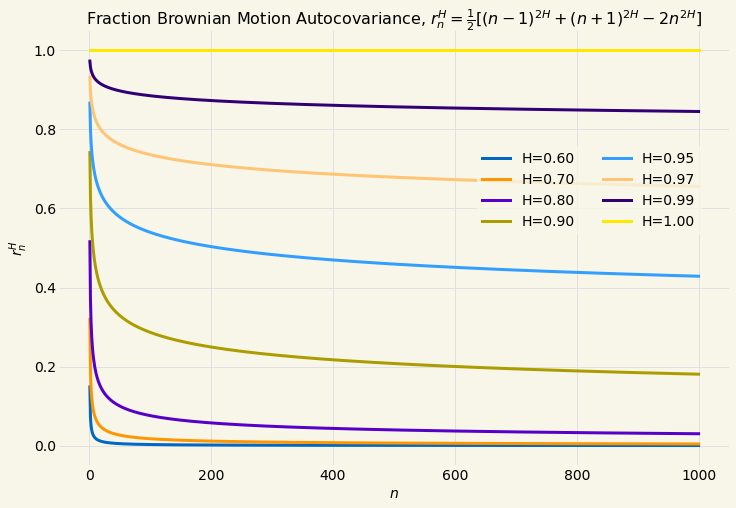
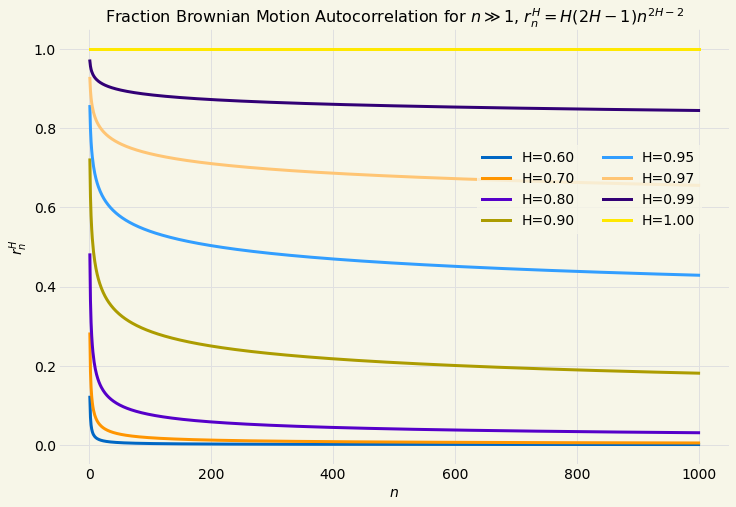
added fft fbm ensemble plots

diff --git a/hydrogen_notebooks/algorithmic_trading/brownian_motion/fractional_brownian_motion_ensemble_averages.py b/hydrogen_notebooks/algorithmic_trading/brownian_motion/fractional_brownian_motion_ensemble_averages.py
@@ -1,0 +1,177 @@
+# %%
+
+%load_ext autoreload
+%autoreload 2
+
+import os
+import sys
+import numpy
+from matplotlib import pyplot
+from lib import config
+from lib import stats
+from lib import brownian_motion as bm
+
+wd = os.getcwd()
+
+yahoo_root = os.path.join(wd, 'data', 'yahoo')
+pyplot.style.use(config.glyfish_style)
+
+# %%
+
+def ensemble_plot(samples, time, text_pos, title, plot_name):
+    nsim, npts = samples.shape
+    figure, axis = pyplot.subplots(figsize=(12, 8))
+    axis.set_xlabel("Time")
+    axis.set_title(title)
+    stats=f"Simulation Stats\n\nμ={format(numpy.mean(samples[:,-1]), '2.2f')}\nσ={format(numpy.std(samples[:,-1]), '2.2f')}"
+    bbox = dict(boxstyle='square,pad=1', facecolor="#FEFCEC", edgecolor="#FEFCEC", alpha=0.75)
+    axis.text(text_pos[0], text_pos[1], stats, fontsize=15, bbox=bbox)
+    for i in range(nsim):
+        axis.plot(time, samples[i], lw=1)
+    config.save_post_asset(figure, "brownian_motion", plot_name)
+
+def ensemble_mean_plot(mean, time, title, plot_name):
+    figure, axis = pyplot.subplots(figsize=(12, 8))
+    axis.set_xlabel("Time")
+    axis.set_title(title)
+    axis.plot(time, mean)
+    config.save_post_asset(figure, "brownian_motion", plot_name)
+
+def ensemble_std_plot(H, std, time, lengend_location, title, plot_name):
+    figure, axis = pyplot.subplots(figsize=(12, 8))
+    step = int(len(time) / 10)
+    axis.set_xlabel("Time")
+    axis.set_title(title)
+    axis.plot(time, std, label="Ensemble Average")
+    axis.plot(time[::step], time[::step]**H, label=r"$t^{H}$", marker='o', linestyle="None", markeredgewidth=1.0, markersize=15.0)
+    axis.legend(bbox_to_anchor=lengend_location)
+    config.save_post_asset(figure, "brownian_motion", plot_name)
+
+def ensemble_autocorrelation_plot(H, ac, time, lengend_location, title, plot_name):
+    figure, axis = pyplot.subplots(figsize=(12, 8))
+    step = int(len(time) / 10)
+    axis.set_ylim([-1.0, 1.0])
+    axis.set_xlabel("Time")
+    axis.set_title(title)
+    label = r"$\frac{1}{2}[(t-1)^{2H} + (t+1)^{2H} - 2t^{2H})]$"
+    axis.plot(time, ac, label="Ensemble Average")
+    axis.plot(time[1::step], bm.fbn_autocorrelation(H, time[1::step]), label=label, marker='o', linestyle="None", markeredgewidth=1.0, markersize=15.0)
+    axis.legend(bbox_to_anchor=lengend_location)
+    config.save_post_asset(figure, "brownian_motion", plot_name)
+
+def fbn_from_fbm(samples):
+    nsim, npts = samples.shape
+    noise = numpy.zeros((nsim, npts-1))
+    for i in range(nsim):
+        for j in range(npts-1):
+            noise[i,j] = samples[i,j+1] - samples[i,j]
+    return noise
+
+# %%
+
+Δt = 1.0
+npts = 1000
+nsims = 500
+time = numpy.linspace(0.0, float(npts)*Δt, npts)
+
+# %%
+
+H = 0.5
+samples = numpy.array([bm.fbm_fft(H, Δt, npts)])
+for i in range(1, nsims):
+    samples = numpy.append(samples, numpy.array([bm.fbm_fft(H, Δt, npts)]), axis=0)
+
+# %%
+
+title = f"Fractional Brownian Motion Ensemble, Ensemble Size={nsims}, H = {format(H, '1.1f')}"
+plot_name = f"fractional_brownian_motion_ensemble_H_{format(H, '1.1f')}"
+ensemble_plot(samples, time, [10.0, 60.0], title, plot_name)
+
+# %%
+
+mean = stats.ensemble_mean(samples)
+title = f"Fractional Brownian Motion Ensemble μ, Ensemble Size={nsims}, H={format(H, '1.1f')}"
+plot_name = f"fractional_brownian_motion_ensemble_μ_H_{format(H, '1.1f')}"
+ensemble_mean_plot(mean, time, title, plot_name)
+
+# %%
+
+std = stats.ensemble_std(samples)
+title = f"Fractional Brownian Motion Ensemble σ, Ensemble Size={nsims}, H={format(H, '1.1f')}"
+plot_name = f"fractional_brownian_motion_ensemble_σ_H_{format(H, '1.1f')}"
+ensemble_std_plot(H, std, time, [0.35, 0.85], title, plot_name)
+
+# %%
+
+ac = stats.ensemble_autocorrelation(fbn_from_fbm(samples))
+title = f"Fractional Brownian Noise Ensemble γ, Ensemble Size={nsims}, H={format(H, '1.1f')}"
+plot_name = f"fractional_brownian_noise_ensemble_γ_H_{format(H, '1.1f')}"
+ensemble_autocorrelation_plot(H, ac, time[:-1], [0.45, 0.85], title, plot_name)
+
+# %%
+
+H = 0.9
+samples = numpy.array([bm.fbm_fft(H, Δt, npts)])
+for i in range(1, nsims):
+    samples = numpy.append(samples, numpy.array([bm.fbm_fft(H, Δt, npts)]), axis=0)
+
+# %%
+
+title = f"Fractional Brownian Motion Ensemble, Ensemble Size={nsims}, H = {format(H, '1.1f')}"
+plot_name = f"fractional_brownian_motion_ensemble_H_{format(H, '1.1f')}"
+ensemble_plot(samples, time, [10.0, 1000.0], title, plot_name)
+
+# %%
+
+mean = stats.ensemble_mean(samples)
+title = f"Fractional Brownian Motion Ensemble μ, Ensemble Size={nsims}, H={format(H, '1.1f')}"
+plot_name = f"fractional_brownian_motion_ensemble_μ_H_{format(H, '1.1f')}"
+ensemble_mean_plot(mean, time, title, plot_name)
+
+# %%
+
+std = stats.ensemble_std(samples)
+title = f"Fractional Brownian Motion Ensemble σ, Ensemble Size={nsims}, H={format(H, '1.1f')}"
+plot_name = f"fractional_brownian_motion_ensemble_σ_H_{format(H, '1.1f')}"
+ensemble_std_plot(H, std, time, [0.35, 0.85], title, plot_name)
+
+# %%
+
+ac = stats.ensemble_autocorrelation(fbn_from_fbm(samples))
+title = f"Fractional Brownian Noise Ensemble γ, Ensemble Size={nsims}, H={format(H, '1.1f')}"
+plot_name = f"fractional_brownian_noise_ensemble_γ_H_{format(H, '1.1f')}"
+ensemble_autocorrelation_plot(H, ac, time[:-1], [0.45, 0.85], title, plot_name)
+
+# %%
+
+H = 0.3
+samples = numpy.array([bm.fbm_fft(H, Δt, npts)])
+for i in range(1, nsims):
+    samples = numpy.append(samples, numpy.array([bm.fbm_fft(H, Δt, npts)]), axis=0)
+
+# %%
+
+title = f"Fractional Brownian Motion Ensemble, Ensemble Size={nsims}, H = {format(H, '1.1f')}"
+plot_name = f"fractional_brownian_motion_ensemble_H_{format(H, '1.1f')}"
+ensemble_plot(samples, time, [50.0, -30.0], title, plot_name)
+
+# %%
+
+mean = stats.ensemble_mean(samples)
+title = f"Fractional Brownian Motion Ensemble μ, Ensemble Size={nsims}, H={format(H, '1.1f')}"
+plot_name = f"fractional_brownian_motion_ensemble_μ_H_{format(H, '1.1f')}"
+ensemble_mean_plot(mean, time, title, plot_name)
+
+# %%
+
+std = stats.ensemble_std(samples)
+title = f"Fractional Brownian Motion Ensemble σ, Ensemble Size={nsims}, H={format(H, '1.1f')}"
+plot_name = f"fractional_brownian_motion_ensemble_σ_H_{format(H, '1.1f')}"
+ensemble_std_plot(H, std, time, [0.35, 0.9], title, plot_name)
+
+# %%
+
+ac = stats.ensemble_autocorrelation(fbn_from_fbm(samples))
+title = f"Fractional Brownian Noise Ensemble γ, Ensemble Size={nsims}, H={format(H, '1.1f')}"
+plot_name = f"fractional_brownian_noise_ensemble_γ_H_{format(H, '1.1f')}"
+ensemble_autocorrelation_plot(H, ac, time[:-1], [0.5, 0.85], title, plot_name)

diff --git a/hydrogen_notebooks/algorithmic_trading/brownian_motion/fractional_brownian_motion_parameters.py b/hydrogen_notebooks/algorithmic_trading/brownian_motion/fractional_brownian_motion_parameters.py
@@ -28,26 +28,26 @@ def fbm_covariance_plot(H_vals, s, time, file_name):
     axis.legend(ncol=2)
     config.save_post_asset(figure, "brownian_motion", file_name)
 
-def fbm_autocorrelation_plot(H_vals, time, lengend_location, file_name):
+def fbn_autocorrelation_plot(H_vals, time, lengend_location, file_name):
     figure, axis = pyplot.subplots(figsize=(12, 8))
     axis.set_xlabel(r"$n$")
     axis.set_ylabel(r"$r_{n}^{H}$")
     axis.set_title(r"Fraction Brownian Motion Autocovariance, $r^{H}_{n}=\frac{1}{2}[(n-1)^{2H} + (n+1)^{2H} - 2n^{2H}]$")
 
     for H in H_vals:
-        axis.plot(time, brownian_motion.fbm_autocorrelation(H, time), label=f"H={format(H, '1.2f')}")
+        axis.plot(time, brownian_motion.fbn_autocorrelation(H, time), label=f"H={format(H, '1.2f')}")
 
     axis.legend(ncol=2, bbox_to_anchor=lengend_location)
     config.save_post_asset(figure, "brownian_motion", file_name)
 
-def fbm_autocorrelation_limit(H_vals, time, lengend_location, file_name):
+def fbn_autocorrelation_limit(H_vals, time, lengend_location, file_name):
     figure, axis = pyplot.subplots(figsize=(12, 8))
     axis.set_xlabel(r"$n$")
     axis.set_ylabel(r"$r_{n}^{H}$")
     axis.set_title(r"Fraction Brownian Motion Autocorrelation for $n\gg1$, $r^{H}_{n}=H(2H-1)n^{2H-2}$")
 
     for H in H_vals:
-        axis.plot(time, brownian_motion.fbm_autocorrelation_large_n(H, time), label=f"H={format(H, '1.2f')}")
+        axis.plot(time, brownian_motion.fbn_autocorrelation_large_n(H, time), label=f"H={format(H, '1.2f')}")
 
     axis.legend(ncol=2, bbox_to_anchor=lengend_location)
     config.save_post_asset(figure, "brownian_motion", file_name)
@@ -120,7 +120,7 @@ nsteps = int(tmax/Δt)
 H_vals = [0.05, 0.1, 0.2, 0.3, 0.4, 0.5]
 time = numpy.linspace(1.0, tmax, nsteps)
 
-fbm_autocorrelation_plot(H_vals, time, (0.8, 0.75), "fractional_brownian_motion_autocorrelation_H_lt_eq_0.5")
+fbn_autocorrelation_plot(H_vals, time, (0.8, 0.75), "fractional_brownian_motion_autocorrelation_H_lt_eq_0.5")
 
 # %%
 
@@ -131,7 +131,7 @@ nsteps = int(tmax/Δt)
 H_vals = [0.6, 0.7, 0.8, 0.9, 0.95, 0.975, 0.99, 1.0]
 time = numpy.linspace(1.0, tmax, nsteps)
 
-fbm_autocorrelation_plot(H_vals, time, (0.6125, 0.75), "fractional_brownian_motion_autocorrelation_H_gt_eq_0.5")
+fbn_autocorrelation_plot(H_vals, time, (0.6125, 0.75), "fractional_brownian_motion_autocorrelation_H_gt_eq_0.5")
 
 # %%
 
@@ -142,8 +142,7 @@ nsteps = int(tmax/Δt)
 H_vals = [0.05, 0.1, 0.2, 0.3, 0.4, 0.5]
 time = numpy.linspace(1.0, tmax, nsteps)
 
-fbm_autocorrelation_plot(H_vals, time, (0.8, 0.75), "fractional_brownian_motion_autocorrelation_H_lt_eq_0.5_long_time")
-
+fbn_autocorrelation_limit(H_vals, time, (0.8, 0.75), "fractional_brownian_motion_autocorrelation_H_lt_eq_0.5_long_time")
 
 # %%
 
@@ -154,7 +153,7 @@ nsteps = int(tmax/Δt)
 H_vals = [0.6, 0.7, 0.8, 0.9, 0.95, 0.975, 0.99, 1.0]
 time = numpy.linspace(1.0, tmax, nsteps)
 
-fbm_autocorrelation_plot(H_vals, time, (0.6125, 0.75), "fractional_brownian_motion_autocorrelation_H_gt_eq_0.5_long_time")
+fbn_autocorrelation_limit(H_vals, time, (0.6125, 0.75), "fractional_brownian_motion_autocorrelation_H_gt_eq_0.5_long_time")
 
 # %%
 
@@ -165,7 +164,7 @@ nsteps = int(tmax/Δt)
 H_vals = [0.05, 0.1, 0.2, 0.3, 0.4, 0.5]
 time = numpy.linspace(1.0, tmax, nsteps)
 
-fbm_autocorrelation_limit(H_vals, time, (0.6, 0.525), "fractional_brownian_motion_autocorrelation_limit_H_lt_eq_0.5")
+fbn_autocorrelation_limit(H_vals, time, (0.6, 0.525), "fractional_brownian_motion_autocorrelation_limit_H_lt_eq_0.5")
 
 # %%
 
@@ -176,4 +175,4 @@ nsteps = int(tmax/Δt)
 H_vals = [0.6, 0.7, 0.8, 0.9, 0.95, 0.975, 0.99, 1.0]
 time = numpy.linspace(1.0, tmax, nsteps)
 
-fbm_autocorrelation_limit(H_vals, time, (0.6125, 0.75), "fractional_brownian_motion_autocorrelation_limit_H_gt_eq_0.5")
+fbn_autocorrelation_limit(H_vals, time, (0.6125, 0.75), "fractional_brownian_motion_autocorrelation_limit_H_gt_eq_0.5")

diff --git a/lib/stats.py b/lib/stats.py
@@ -1,5 +1,31 @@
 import numpy
 
+def ensemble_mean(samples):
+    nsim, npts = samples.shape
+    mean = numpy.zeros(npts)
+    for i in range(npts):
+        for j in range(nsim):
+            mean[i] += samples[j,i] / float(nsim)
+    return mean
+
+def ensemble_std(samples):
+    mean = ensemble_mean(samples)
+    nsim, npts = samples.shape
+    std = numpy.zeros(npts)
+    for i in range(npts):
+        for j in range(nsim):
+            std[i] += (samples[j,i] - mean[i])**2 / float(nsim)
+    return numpy.sqrt(std)
+
+def ensemble_autocorrelation(samples):
+    nsim, npts = samples.shape
+    ac_avg = numpy.zeros(npts)
+    for j in range(nsim):
+        ac = autocorrelate(samples[j]).real
+        for i in range(npts):
+            ac_avg[i] += ac[i]
+    return ac_avg / float(nsim)
+
 def cummean(samples):
     nsample = len(samples)
     mean = numpy.zeros(nsample)

diff --git a/lib/brownian_motion.py b/lib/brownian_motion.py
@@ -112,7 +112,6 @@ def fbn_fft(H, Δt, n, dB=None):
 
     return Z[:n].real
 
-
 def fbm_fft(H, Δt, n, dB=None):
     if dB is None:
         dB = brownian_noise(2*n)
